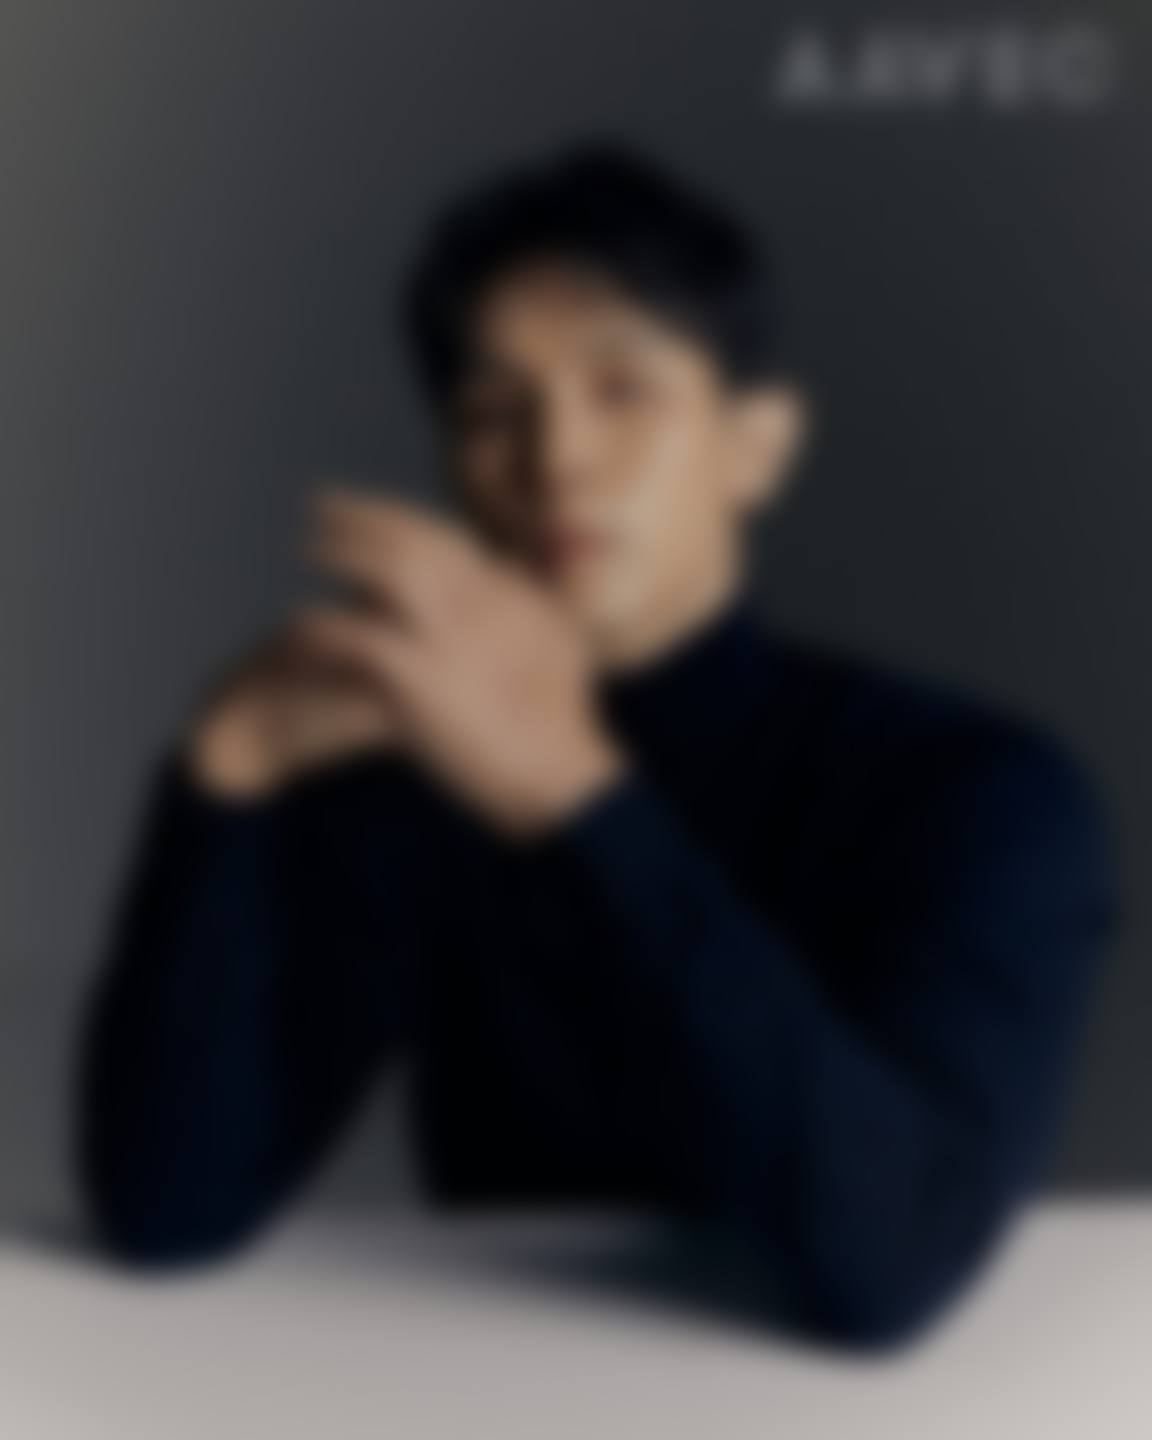
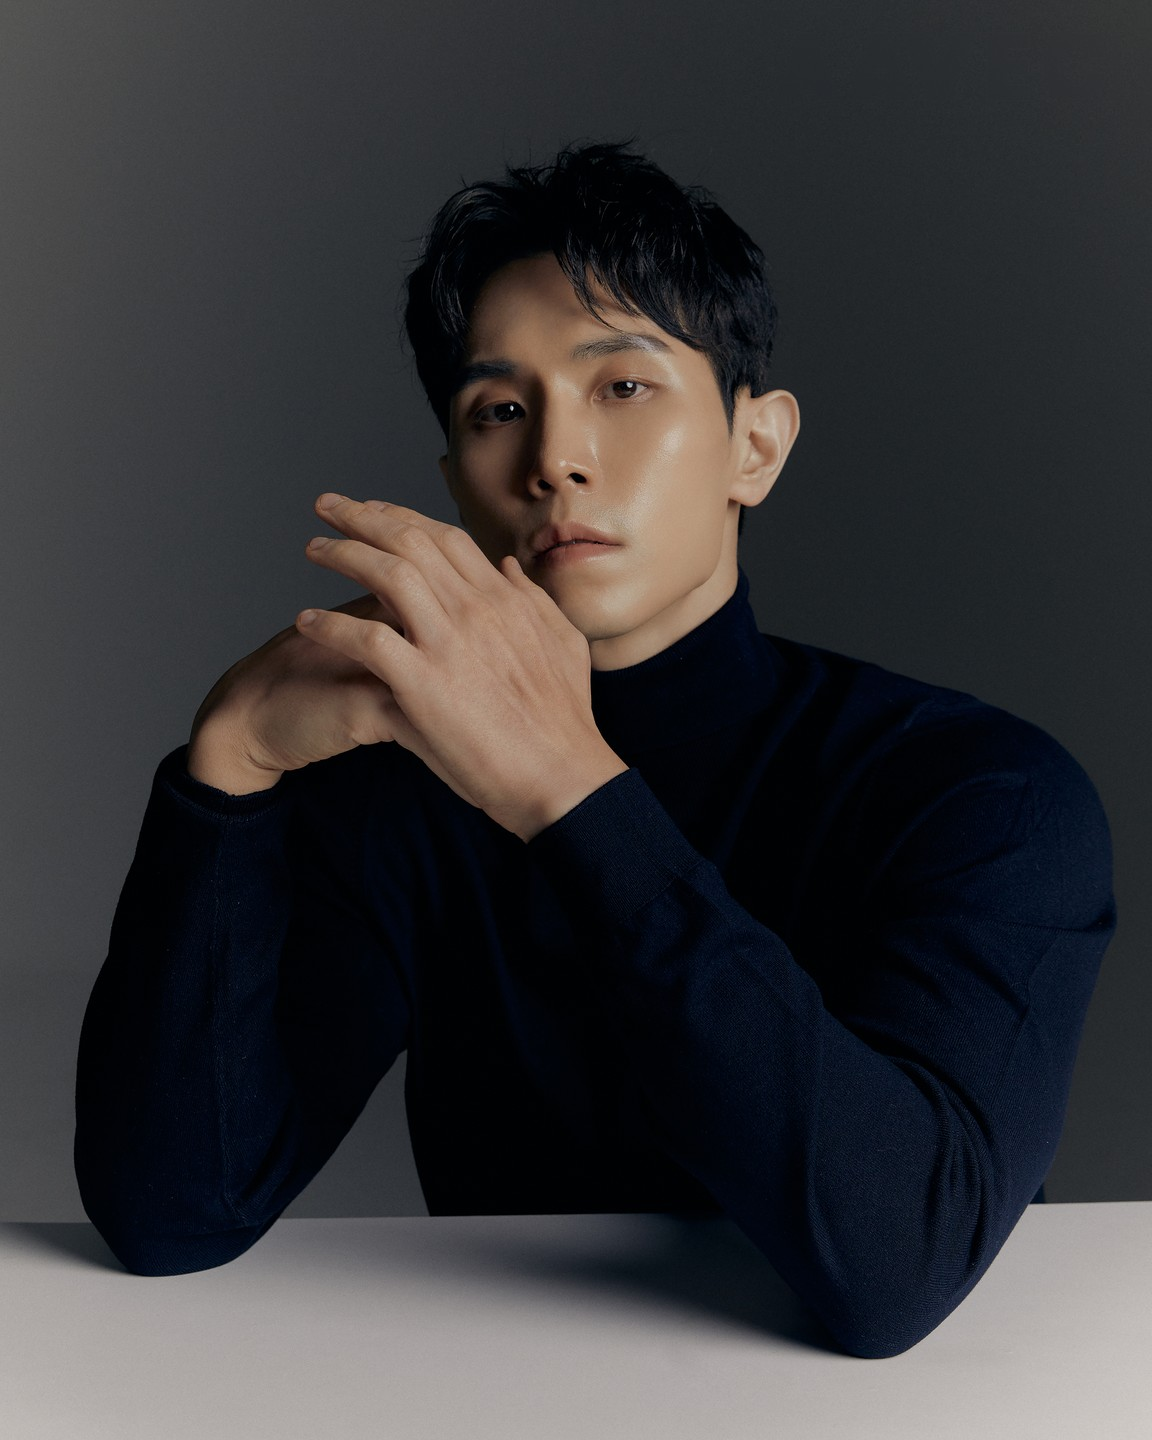
fix: 원장 사진 스튜디오 워터마크 제거(원본 복원 후 파생 3종 재생성), CTA 폼을 고등 4개교·고1/고2로 한정

diff --git a/report/index.html b/report/index.html
@@ -1,7 +1,7 @@
 <meta charset="utf-8">
 <meta name="viewport" content="width=device-width,initial-scale=1">
 <title>1학기 기말 분석 리포트 + 동형 모의고사 | 다올105</title>
-<meta name="description" content="우리 학교 1학기 기말 시험지를 문항 단위로 분석한 리포트와 동형 모의고사를 드립니다. 하남·미사 중1~고2.">
+<meta name="description" content="우리 학교 1학기 기말 시험지를 문항 단위로 분석한 리포트와 동형 모의고사를 드립니다. 하남·미사 고1·고2.">
 <meta property="og:title" content="우리 학교 1학기 기말, 어떻게 나왔는지 보셨습니까">
 <meta property="og:description" content="문항별 출처·배점·변형 방식까지. 2학기 중간 대비 방향과 동형 모의고사를 함께 드립니다.">
 <link rel="canonical" href="https://jayu0422-blip.github.io/jugan-naesin/report/">
@@ -92,7 +92,7 @@ footer b{color:var(--mut)}
 </style>
 
 <header><div class="wrap">
-  <div class="pill">하남 · 미사 중1~고2 · 학교별 제작</div>
+  <div class="pill">미사강변고 · 미사고 · 하남고 · 풍산고 · 고1·고2</div>
   <h1>우리 학교 1학기 기말,<br><span class="hl">어떻게 나왔는지</span><br>보신 적 있으신가요?</h1>
   <p class="sub">시험지를 <b>문항 하나하나</b> 뜯어서 출처·배점·변형 방식까지 정리했습니다.<br>
      2학기 중간을 어디서부터 잡아야 하는지, <b>그 학교 기준</b>으로 알려드립니다.</p>
@@ -176,8 +176,8 @@ var SUPA="https://sqogiblaagmmkpwwodgf.supabase.co";
 var ANON="sb_publishable_JJMJVY4pC9zL25xHDf91Kg_meLV8iwT";
 var $=function(i){return document.getElementById(i)};
 
-var SCHOOLS=["미사강변고","미사고","하남고","풍산고","미사중","미사강변중","윤슬중","덕풍중","은가람중","그 외"];
-var GRADES=["중1","중2","중3","고1","고2","고3"];
+var SCHOOLS=["미사강변고","미사고","하남고","풍산고"];
+var GRADES=["고1","고2"];
 var SUBJECTS=["영어","수학","국어"];
 /* 실제 분석 보유 조합 — 없는 곳은 정직하게 안내한다 */
 /* 지금 바로 보낼 수 있는 조합(PDF 완성분) */
